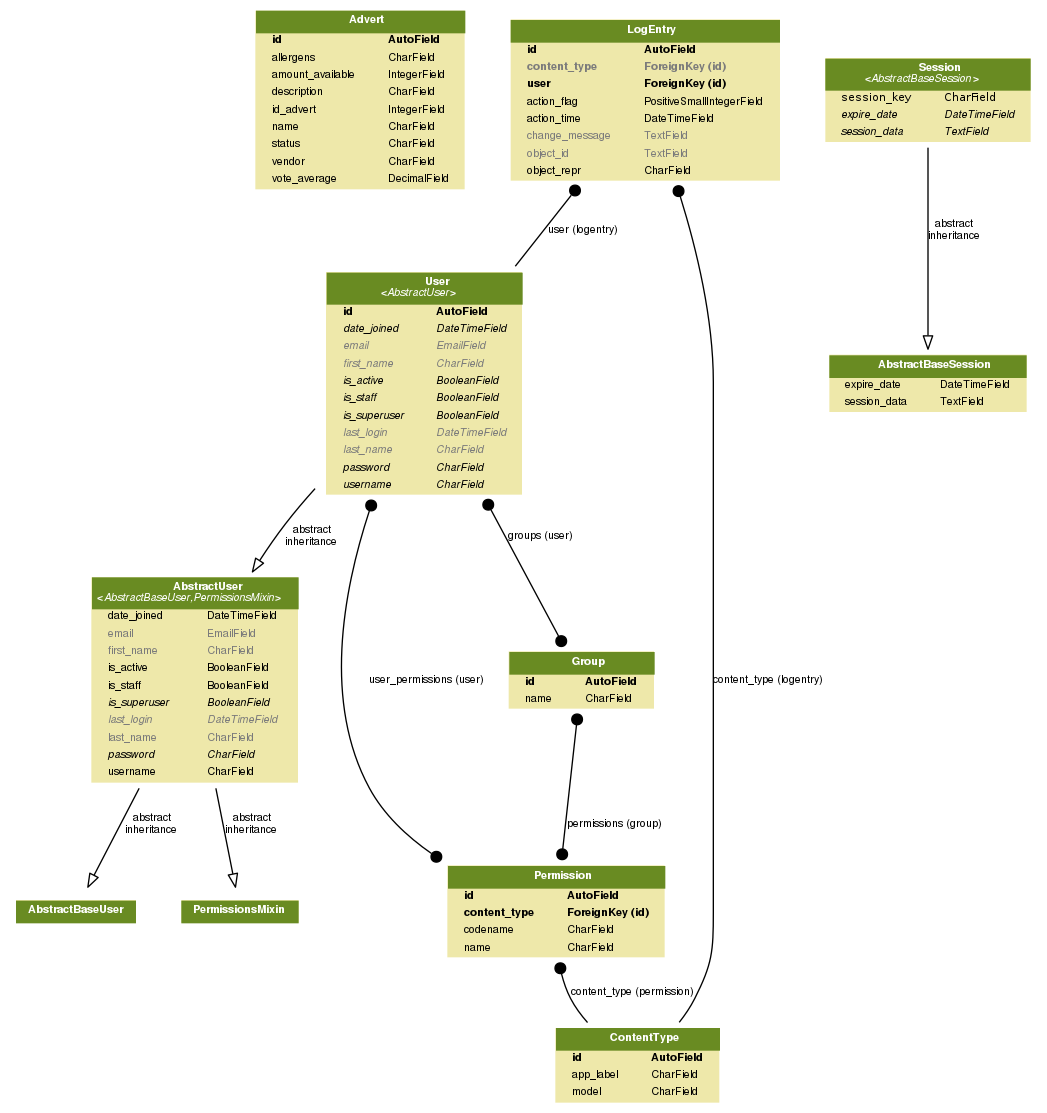
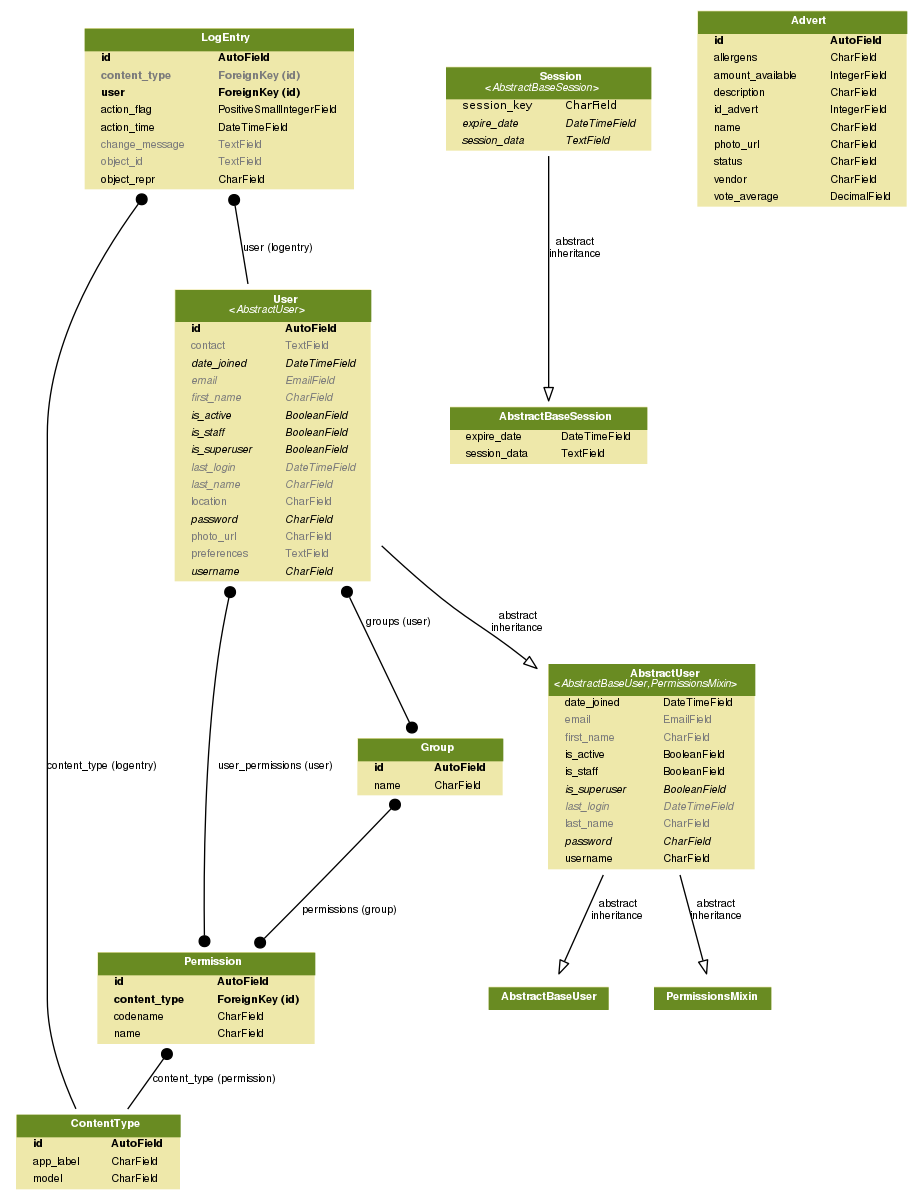
merge sql fix and loading images correctly

diff --git a/wallafood/templates/wallafood/advertisements.html b/wallafood/templates/wallafood/advertisements.html
@@ -67,6 +67,25 @@
             <form id="edittext" action={% url 'findAdvertisement' %}>
                 <div class="input-group input-group-lg">
                     <input type="text" name="text_search" class="form-control" placeholder="Search advertisement">
+                    <li class="input-group-btn">
+                        <a href="#" class="dropdown-toggle" data-toggle="dropdown" role="button" aria-haspopup="true" aria-expanded="false">Filter
+                            <span class="caret"></span>
+                        </a>
+                        <ul class="dropdown-menu">
+                            <li>
+                                <a>My Adverts</a>
+                            </li>
+                            <li>
+                                <a >Advert Name</a>
+                            </li>
+                            <li>
+                                <a>UserName</a>
+                            </li>
+                            <li>
+                                <a>Location</a>
+                            </li>
+                        </ul>
+                    </li>
                     <div class="input-group-btn">
                         <button class="btn btn-info" type="submit">
                             <i class="glyphicon glyphicon-search"></i>
@@ -85,7 +104,7 @@
                 <div class="col-md-6">
                     <h1 class="list-group-item-heading bold"> {{ element.name }} </h1>
                     <p class="list-group-item-heading bold"> {{ element.description }} </p>
-                    <p class="list-group-item-heading ">Vendor: {{ element.vendor }} </p>
+                    <p class="list-group-item-heading italic">Vendor: {{ element.vendor }} </p>
                 </div>
                 <div class="col-md-4 text-center">
                     <p class="list-group-item-heading bold"> {{ element.status }} </p>

diff --git a/wallafood/views.py b/wallafood/views.py
@@ -146,10 +146,10 @@ def advertisements(request):
 
 def addAdvert(request):
     form = forms.CreateAdvertForm(request.POST)
-    username = request.GET.get('username')
 
     if request.method == 'POST':
         form = forms.CreateAdvertForm(request.POST)
+        username = request.GET.get('username')
         logger = logging.getLogger(__name__)
         if form.is_valid():
             #logger.error(request.POST["name"])
@@ -159,8 +159,9 @@ def addAdvert(request):
             advert.vendor = username
             advert.vote_average = 0
             advert.status = 'available'
-            advert.save()
-            advert.photo_url = "https://www.telemundo.com/sites/nbcutelemundo/files/images/promo/video_clip/2017/12/21/frutas-y-verduras.jpg"
+            if advert.photo_url == '':
+                advert.photo_url = "https://www.telemundo.com/sites/nbcutelemundo/files/images/promo/video_clip/2017/12/21/frutas-y-verduras.jpg"
+            advert.save()        
             return redirect("/wallafood/advertisements")
     else:
         form = forms.CreateAdvertForm()

diff --git a/wallafood/migrations/0001_initial.py b/wallafood/migrations/0001_initial.py
@@ -1,4 +1,4 @@
-# Generated by Django 2.1.3 on 2018-12-01 18:14
+# Generated by Django 2.1.3 on 2018-12-02 17:33
 
 import django.contrib.auth.models
 import django.contrib.auth.validators
@@ -57,6 +57,7 @@ class Migration(migrations.Migration):
                 ('allergens', models.CharField(max_length=200)),
                 ('vote_average', models.DecimalField(decimal_places=2, max_digits=3, null=True)),
                 ('status', models.CharField(max_length=20)),
+                ('photo_url', models.CharField(default='https://www.telemundo.com/sites/nbcutelemundo/files/images/promo/video_clip/2017/12/21/frutas-y-verduras.jpg', max_length=300)),
             ],
             options={
                 'ordering': ('name',),

diff --git a/wallafood/models.py b/wallafood/models.py
@@ -19,7 +19,7 @@ class Advert(models.Model):
     allergens =  models.CharField(max_length=200, null=False)
     vote_average = models.DecimalField(max_digits=3, decimal_places=2, null=True)
     status = models.CharField(max_length=20)
-    photo_url = models.CharField(max_length=300, default='https://www.telemundo.com/sites/nbcutelemundo/files/images/promo/video_clip/2017/12/21/frutas-y-verduras.jpg')
+    photo_url = models.CharField(max_length=300, default='')
 
     def __str__(self):
         return self.name

diff --git a/is2/settings.py b/is2/settings.py
@@ -42,6 +42,7 @@ INSTALLED_APPS = [
     'django.contrib.sessions',
     'django.contrib.messages',
     'django.contrib.staticfiles',
+    'django_extensions',
     'wallafood.apps.WallafoodConfig',
 ]
 
